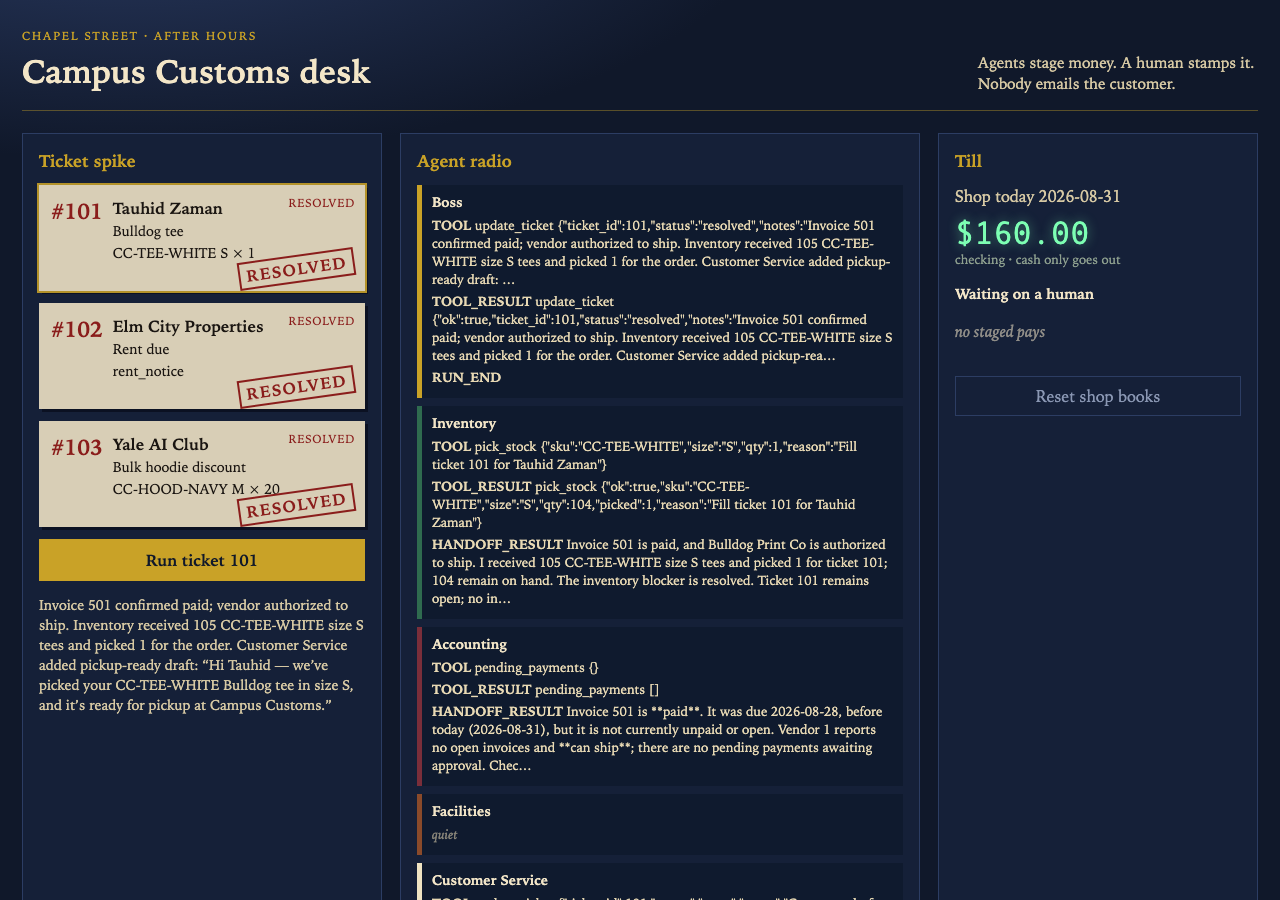
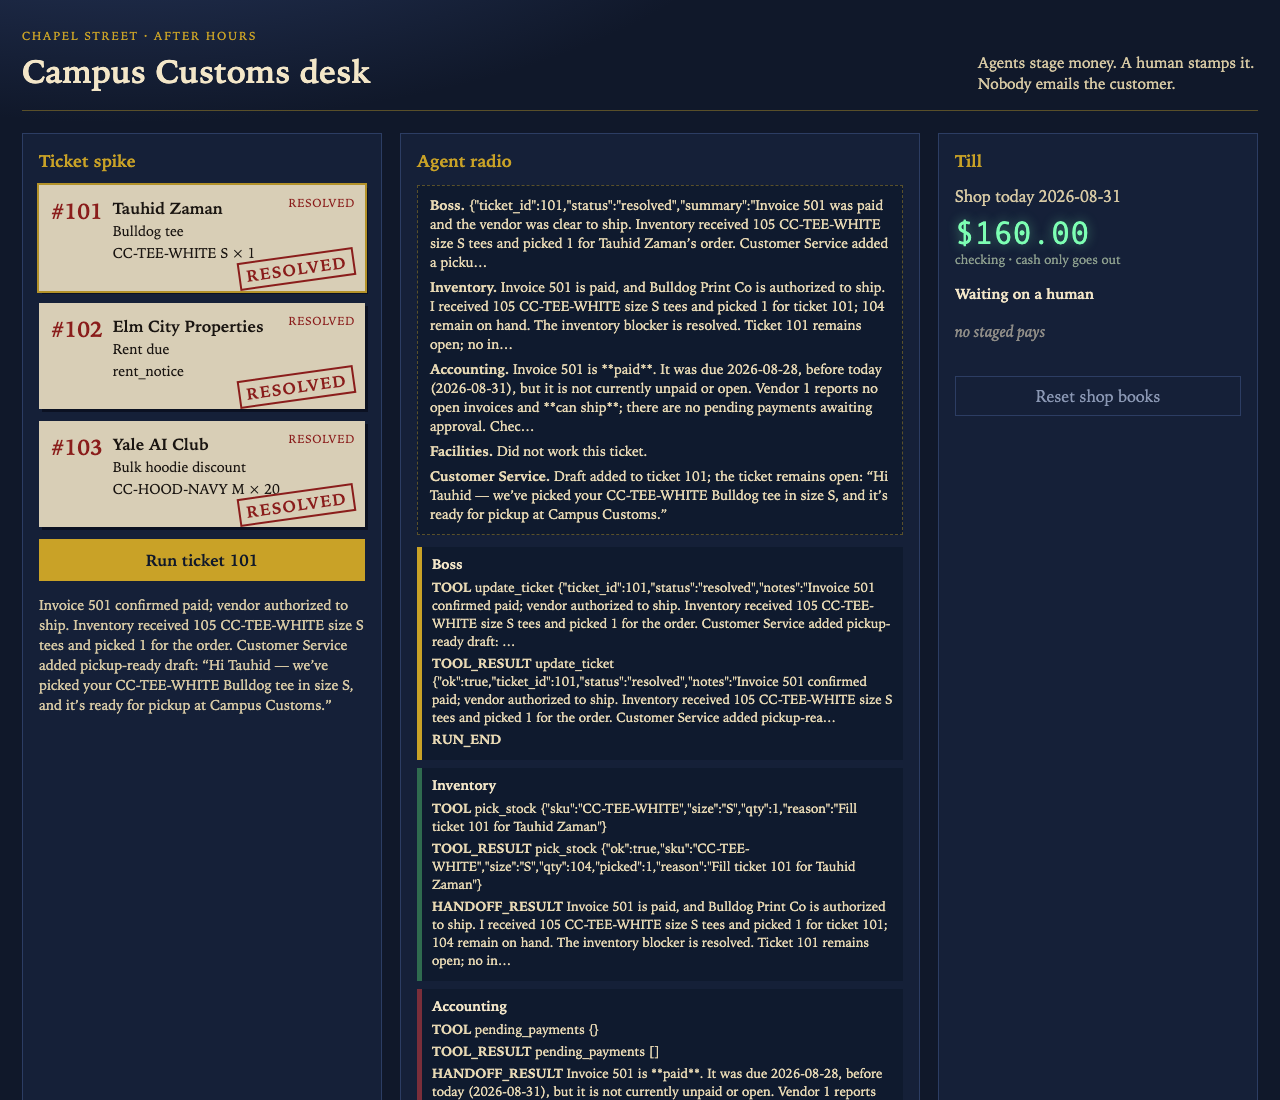
Show a one-line summary of what each agent did on the selected ticket.

Changed region(s): [[0.0, 0.0311, 0.7188, 1.0], [0.75, 0.0311, 0.9688, 0.3733], [0.8125, 0.4356, 0.9062, 0.4667]]

diff --git a/frontend/src/App.tsx b/frontend/src/App.tsx
@@ -36,6 +36,16 @@ function money(n: number): string {
   return n.toLocaleString("en-US", { style: "currency", currency: "USD" });
 }
 
+function agentSummary(rows: EventRow[]): string {
+  const done = [...rows].reverse().find((row) => row.kind === "HANDOFF_RESULT" || row.kind === "RUN_END");
+  if (done) {
+    return clip(done.result || done.verdict || done.task);
+  }
+  const tools = [...new Set(rows.filter((row) => row.kind === "TOOL" && row.tool).map((row) => row.tool))];
+  if (tools.length) return `Used ${tools.join(", ")}`;
+  return "";
+}
+
 export default function App() {
   const [tickets, setTickets] = useState<Ticket[]>([]);
   const [picked, setPicked] = useState<number | null>(() => {
@@ -166,6 +176,17 @@ export default function App() {
 
         <section className="radio">
           <h2>Agent radio</h2>
+          <div className="shift">
+            {AGENTS.map((agent) => {
+              const rows = ticketEvents.filter((row) => agentOf(row) === agent.id);
+              const summary = agentSummary(rows);
+              return (
+                <p key={`sum-${agent.id}`}>
+                  <strong>{agent.label}.</strong> {summary || "Did not work this ticket."}
+                </p>
+              );
+            })}
+          </div>
           <div className="lanes">
             {AGENTS.map((agent) => {
               const rows = ticketEvents.filter((row) => agentOf(row) === agent.id);

diff --git a/output/desk_tickets.html b/output/desk_tickets.html
@@ -60,7 +60,7 @@
 <body>
   <header>
     <h1>Chapel Street desk — tickets 101 / 102 / 103</h1>
-    <p>Shop today is 2026-08-31. Checking starts at $3,400. Expected is the plan. Actual gets filled after the run.</p>
+    <p>Shop today is 2026-08-31. Checking started at $3,400 and ended at $160. Expected is the plan. Actual, Cash, and Reflection are from the live run.</p>
   </header>
   <nav>
     <button class="on" data-tab="t101">Ticket 101</button>

diff --git a/frontend/src/App.css b/frontend/src/App.css
@@ -117,6 +117,15 @@
 .run:disabled { opacity: 0.55; cursor: wait; }
 .verdict, .notes { font-size: 0.88rem; color: #d7c9a4; }
 
+.shift {
+  background: #0f1a2e;
+  padding: 10px 12px;
+  margin-bottom: 12px;
+  border: 1px dashed #c9a22766;
+}
+.shift p { margin: 0 0 6px; font-size: 0.86rem; color: #e8d9b4; }
+.shift p:last-child { margin-bottom: 0; }
+
 .lanes { display: flex; flex-direction: column; gap: 8px; }
 .lane {
   padding: 8px 10px;

diff --git a/output/design.md b/output/design.md
@@ -22,7 +22,7 @@ Each lane has its own stripe so you can scan who is talking without reading the 
 - Facilities — brick
 - Customer Service — note-paper cream
 
-Handoffs render as a ticket passing from one lane to the next. Tool results stay in the caller’s lane.
+Handoffs render as a ticket passing from one lane to the next. Tool results stay in the caller’s lane. Above the lanes, a shift summary gives one line per agent for that ticket — including “Did not work this ticket” so you can see Facilities stay off a merch ticket.
 
 ## Resolved tickets and cash
 
@@ -31,5 +31,6 @@ A resolved ticket keeps its body text but the stamp covers the status chip so yo
 ## Creative choices
 
 - Paper ticket texture and a navy “after hours” background, because this is a Broadway merch counter, not a SaaS settings page.
+- A shift-summary strip above the radio so you can read what each agent did without scanning every tool line.
 - A visible human stamp for money. The whole point of the shop rules is that agents cannot move cash; the UI should make that feel physical.
 - Shop-today in the till header so overdue math stays tied to 2026-08-31.

diff --git a/AI_prompts.md b/AI_prompts.md
@@ -62,7 +62,7 @@ Created at the start of Homework 5. Each of Problems 2–11 has its own section 
 
 **What was lacking after the first prompt:** (none yet)
 
-**Evidence this was its own step:** `output/desk_tickets.html` Expected sections are filled. Actual / Cash / Reflection wait for the live run.
+**Evidence this was its own step:** `output/desk_tickets.html` Expected sections were filled before the live run. Actual, Cash, and Reflection were added after Problem 9 / 10.
 
 ---
 
